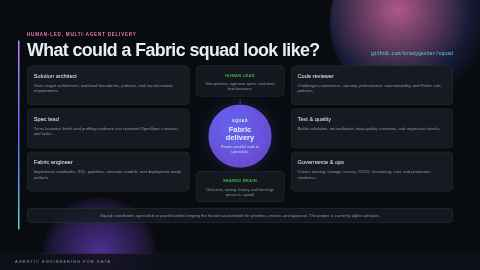
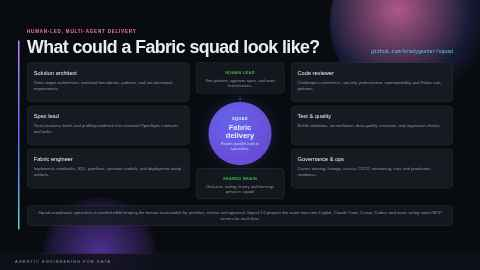
Auto-save from DECKIO — 2026-10-29T10:05

diff --git a/src/slides/FabricSkillsWorkflowSlide.jsx b/src/slides/FabricSkillsWorkflowSlide.jsx
@@ -20,6 +20,12 @@ const steps = [
     title: 'Describe the outcome',
     description: 'Ask for a Fabric task in natural language. Copilot selects the relevant skills and workflow.',
   },
+  {
+    id: 'single',
+    number: '4',
+    title: 'Or install just one skill',
+    description: 'Use APM (Agent Package Manager) to add a single skill - and its MCP servers - to copilot, claude, cursor, codex, and more.',
+  },
 ]
 
 export default function FabricSkillsWorkflowSlide({ index }) {
@@ -73,6 +79,10 @@ export default function FabricSkillsWorkflowSlide({ index }) {
             Use Microsoft Fabric skills to design a medallion architecture for NYC taxi data.
           </Editable>
         </div>
+
+        <Editable as="p" id="fabricSkillsWorkflow.apmNote" multiline className={styles.note}>
+          <code>apm install microsoft/skills-for-fabric --skill sqldw-cli --target copilot</code> installs one skill plus any MCP servers and agents it needs, without pulling in the full bundle.
+        </Editable>
       </div>
 
       <BottomBar text={<Editable as="span" id="fabricSkillsWorkflow.footer">Agentic Engineering for Data</Editable>} />

diff --git a/src/slides/SpecFrameworkComparisonSlide.jsx b/src/slides/SpecFrameworkComparisonSlide.jsx
@@ -10,9 +10,9 @@ const openSpecPoints = [
 
 const specKitPoints = [
   { id: 'shape', text: 'Comprehensive process with constitution, spec, plan, tasks, implementation, and convergence' },
-  { id: 'flow', text: 'Specify → plan → tasks → implement → converge' },
+  { id: 'flow', text: 'Constitution → specify → plan → tasks → implement → converge' },
   { id: 'fit', text: 'Strong fit for structured delivery, shared standards, and organization-wide workflows' },
-  { id: 'style', text: 'Deep customization through extensions, presets, bundles, and project overrides' },
+  { id: 'style', text: 'Deep customization via searchable extension, preset, workflow, and bundle catalogs' },
 ]
 
 export default function SpecFrameworkComparisonSlide({ index }) {

diff --git a/src/slides/FabricSquadSlide.jsx b/src/slides/FabricSquadSlide.jsx
@@ -96,7 +96,7 @@ export default function FabricSquadSlide({ index }) {
         </div>
 
         <Editable as="p" id="fabricSquad.note" multiline className={styles.note}>
-          Squad coordinates specialists in parallel while keeping the human accountable for priorities, review, and approval. The project is currently alpha software.
+          Squad coordinates specialists in parallel while keeping the human accountable for priorities, review, and approval. Squad 2.0 projects the same team into Copilot, Claude Code, Cursor, Codex, and more, wiring native MCP servers for each host.
         </Editable>
       </div>
 

diff --git a/src/slides/OpenSpecWorkflowSlide.jsx b/src/slides/OpenSpecWorkflowSlide.jsx
@@ -72,7 +72,7 @@ export default function OpenSpecWorkflowSlide({ index }) {
         </EditableList>
 
         <Editable as="p" id="openSpecWorkflow.note" multiline className={styles.note}>
-          Start with explore when the solution is unclear; go directly to propose when the outcome is already understood.
+          Start with explore when the solution is unclear; go directly to propose when the outcome is already understood. For multi-repo teams, Stores let specs live in their own repo and span services.
         </Editable>
       </div>
 

diff --git a/src/slides/FabricSkillsWorkflowSlide.module.css b/src/slides/FabricSkillsWorkflowSlide.module.css
@@ -78,8 +78,8 @@
 
 .stepGrid {
   display: grid;
-  grid-template-columns: repeat(3, minmax(0, 1fr));
-  gap: 18px;
+  grid-template-columns: repeat(4, minmax(0, 1fr));
+  gap: 14px;
 }
 
 .stepItem {
@@ -148,4 +148,17 @@
   font-size: 14px;
   font-style: italic;
   line-height: 1.4;
+}
+
+.note {
+  margin: 0;
+  color: var(--muted-foreground);
+  font-size: 13px;
+  line-height: 1.5;
+}
+
+.note code {
+  color: var(--accent);
+  font-family: Consolas, 'Courier New', monospace;
+  font-size: 12px;
 }
